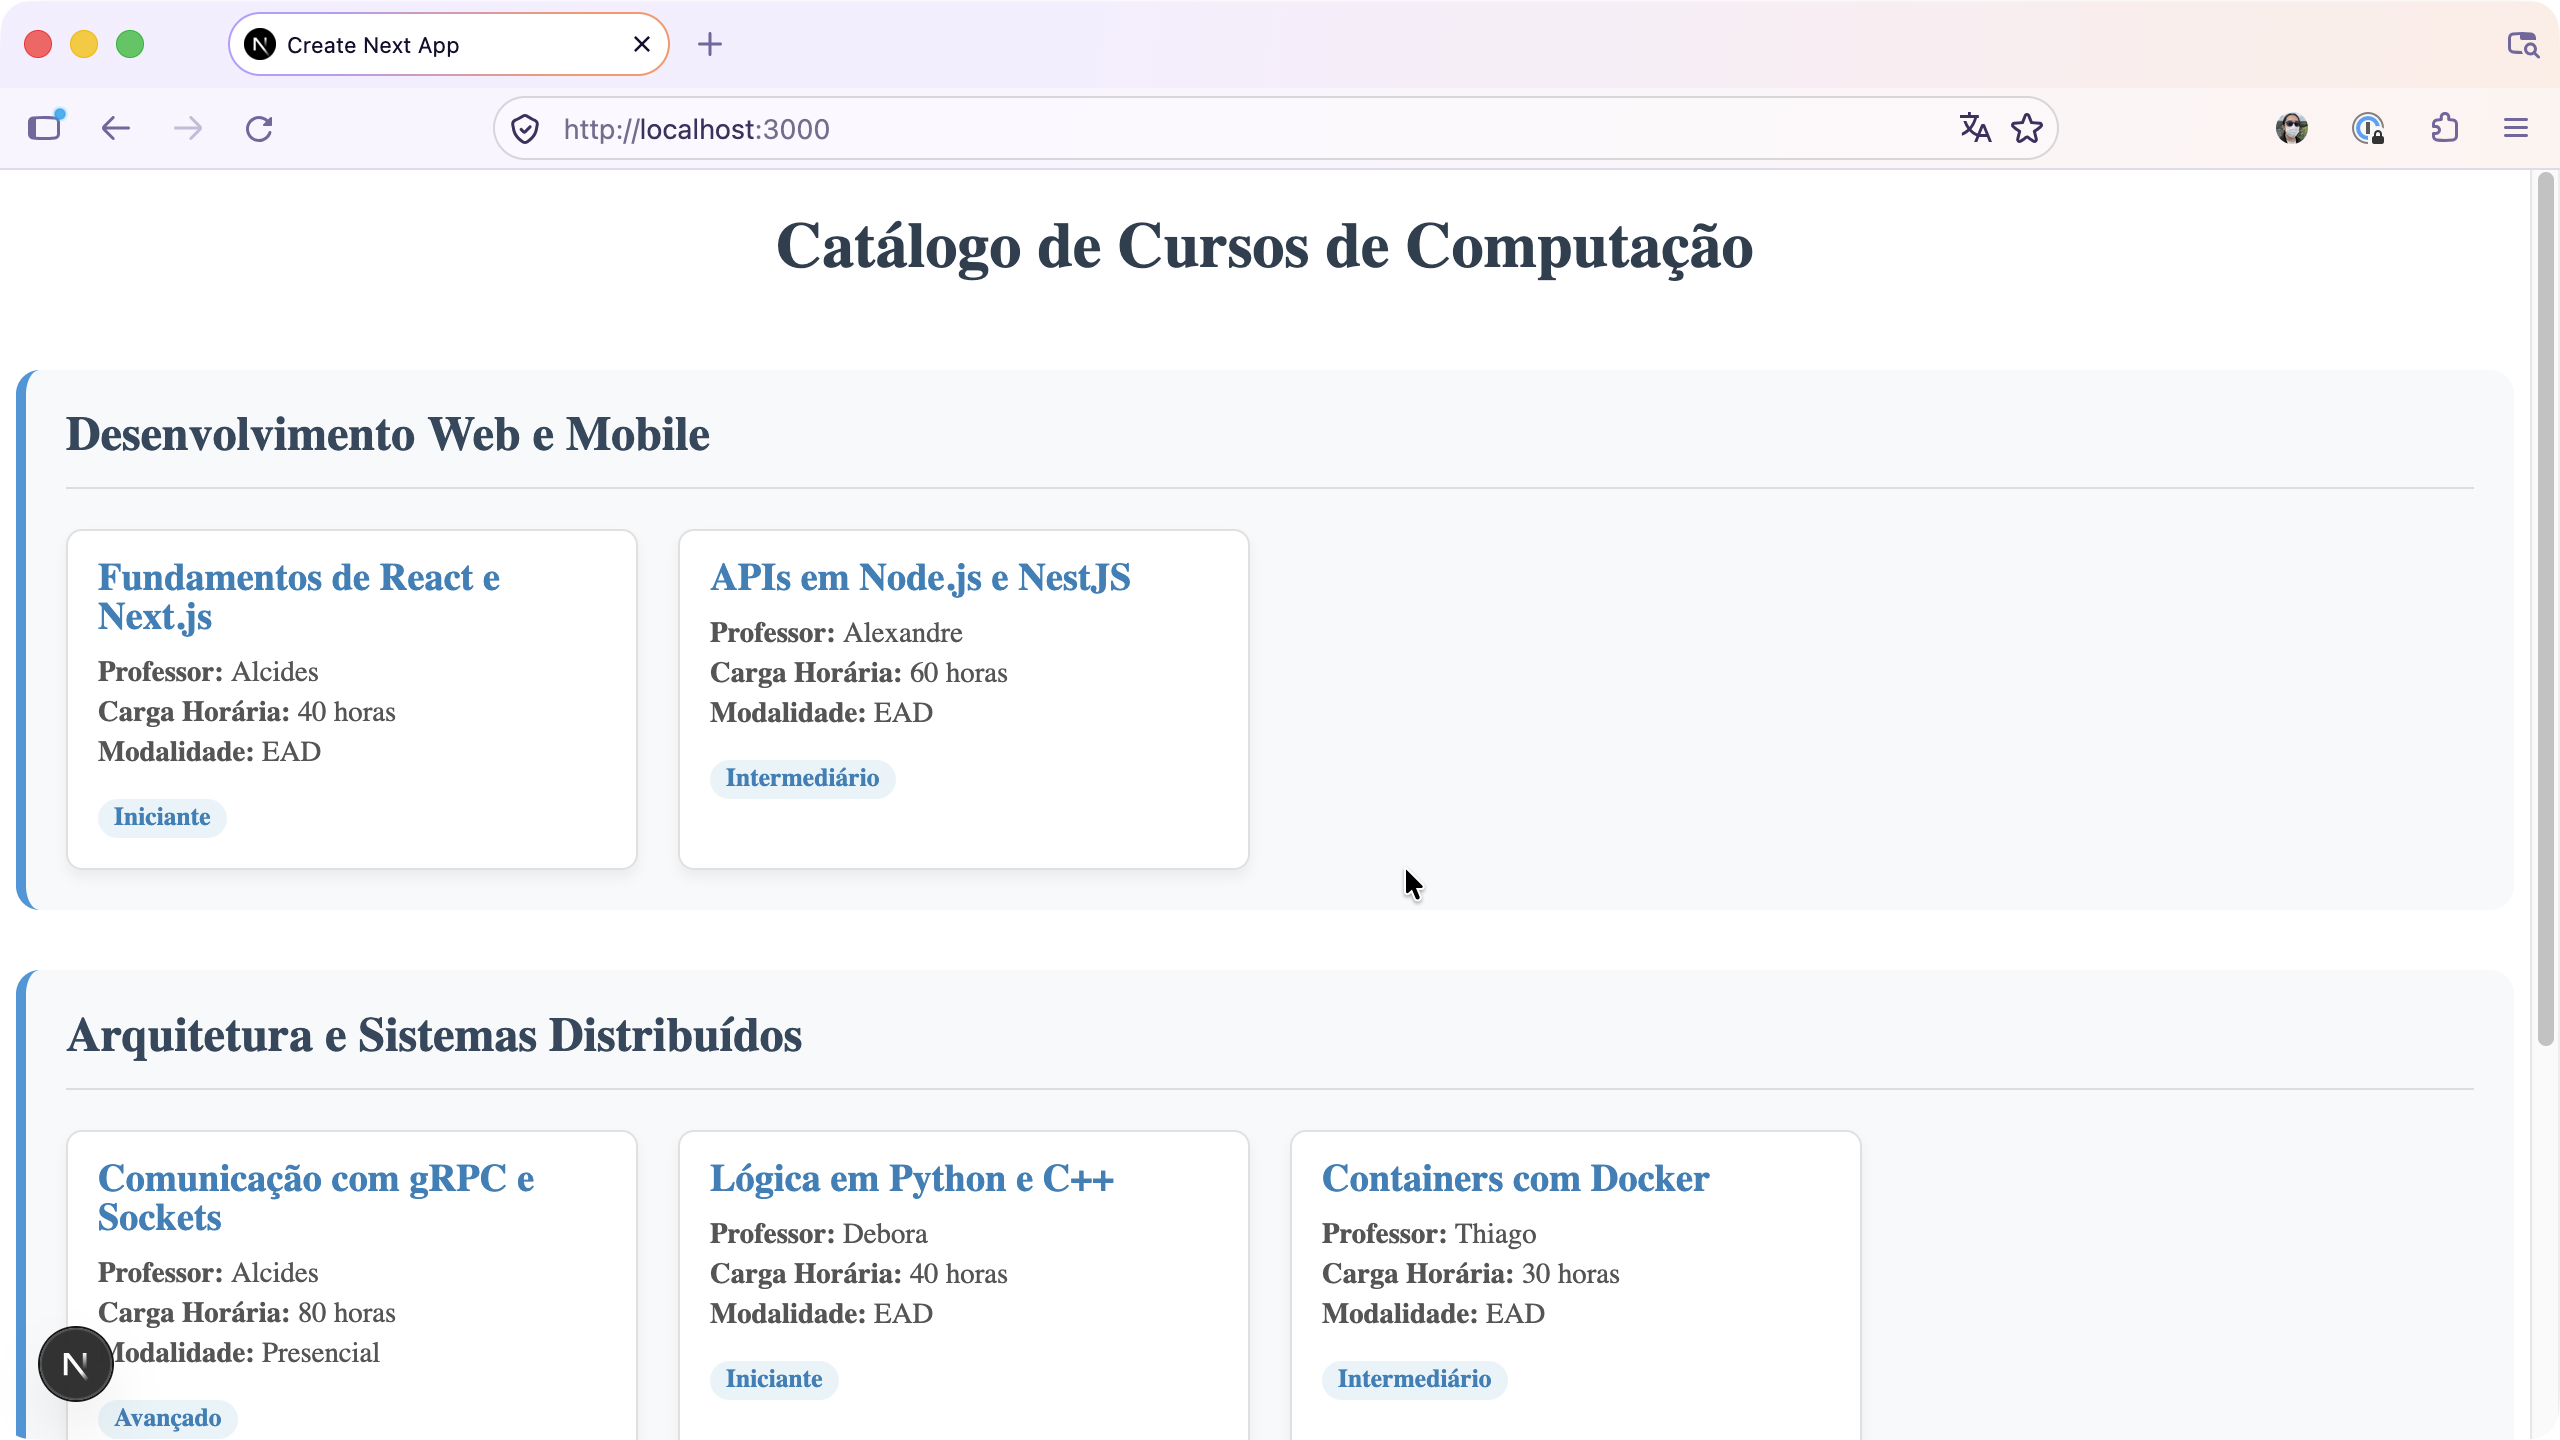
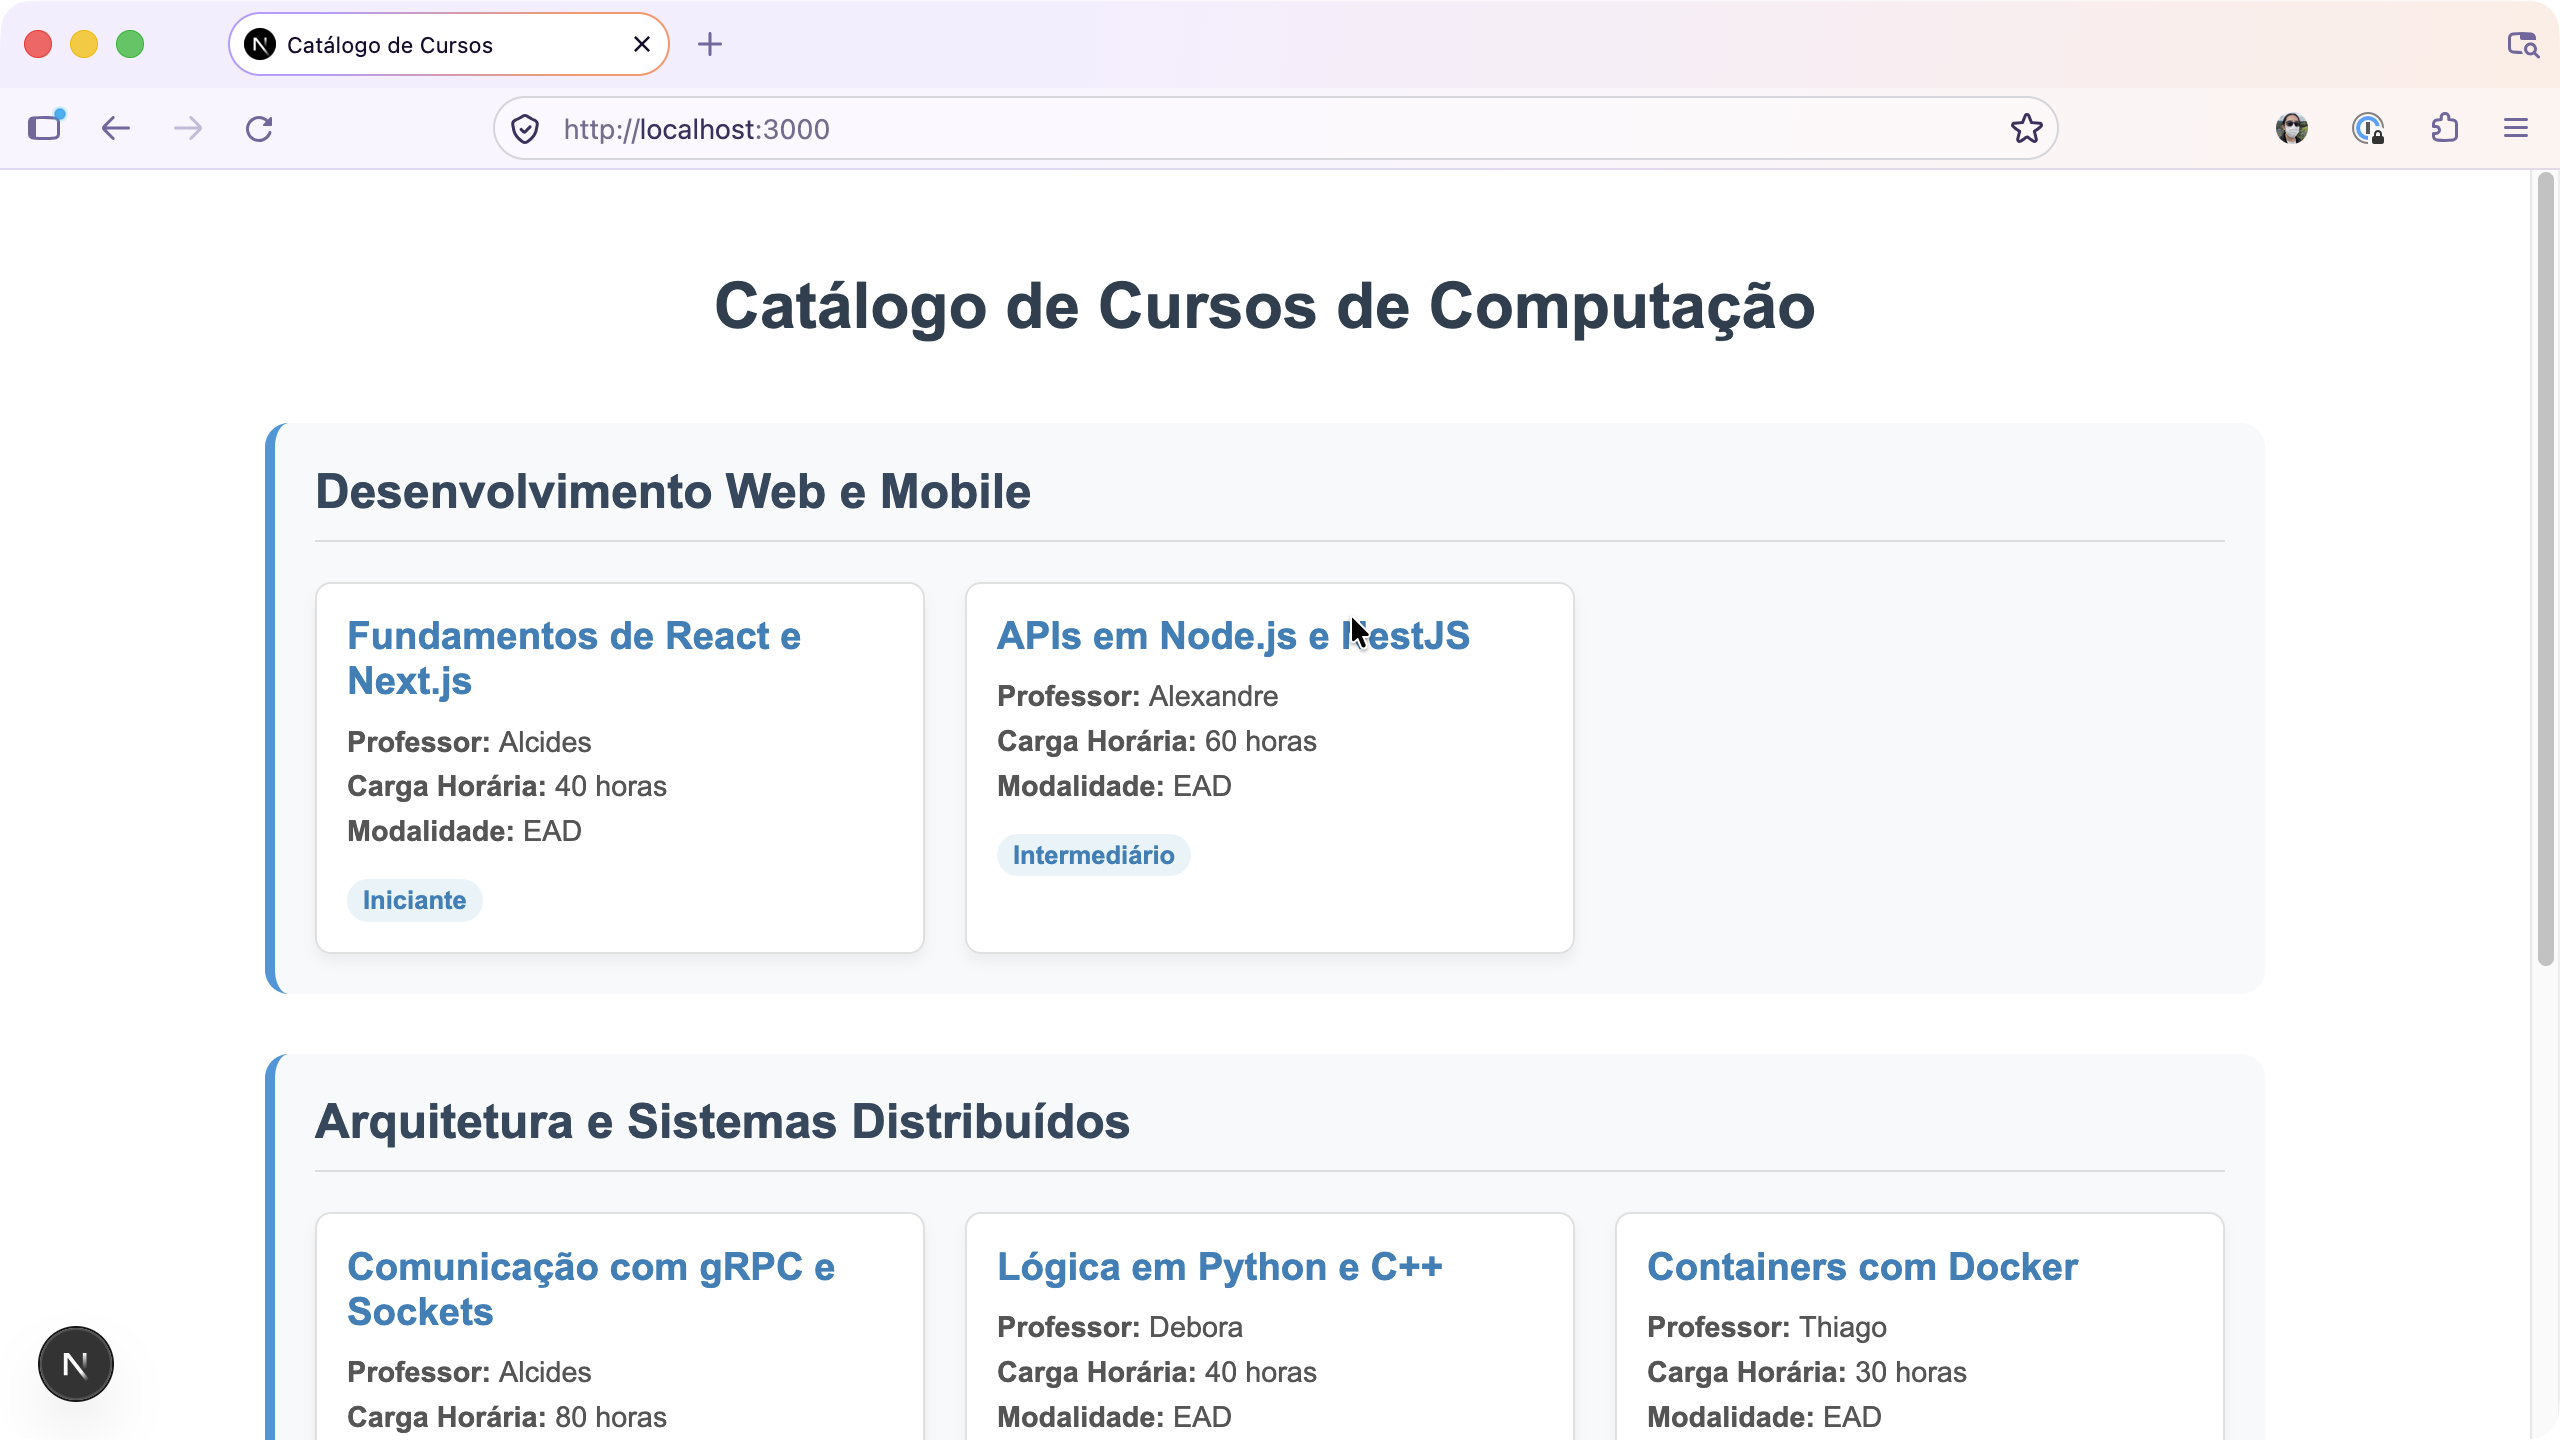
final adjust

diff --git a/app/layout.tsx b/app/layout.tsx
@@ -1,25 +1,15 @@
 import type { Metadata } from 'next';
-import { Geist, Geist_Mono } from 'next/font/google';
 import './globals.css';
 
-const geistSans = Geist({
-  variable: '--font-geist-sans',
-  subsets: ['latin'],
-});
-
-const geistMono = Geist_Mono({
-  variable: '--font-geist-mono',
-  subsets: ['latin'],
-});
-
 export const metadata: Metadata = {
-  title: 'Create Next App',
-  description: 'Generated by create next app',
+  title: 'Catálogo de Cursos',
+  description: 'Catálogo de Cursos Semestrais em Computação',
+  authors: [{ name: 'Daniel Omiya' }],
 };
 
 export default function RootLayout({ children }: LayoutProps<'/'>) {
   return (
-    <html lang="en" className={`${geistSans.variable} ${geistMono.variable}`}>
+    <html lang="pt-BR">
       <body>{children}</body>
     </html>
   );

diff --git a/app/page.tsx b/app/page.tsx
@@ -3,7 +3,7 @@ import CursoCard from './components/CursoCard';
 
 export default function Home() {
   return (
-    <main>
+    <main className="container">
       <h1 className="titulo-principal">Catálogo de Cursos de Computação</h1>
       <Categoria titulo="Desenvolvimento Web e Mobile">
         <CursoCard
